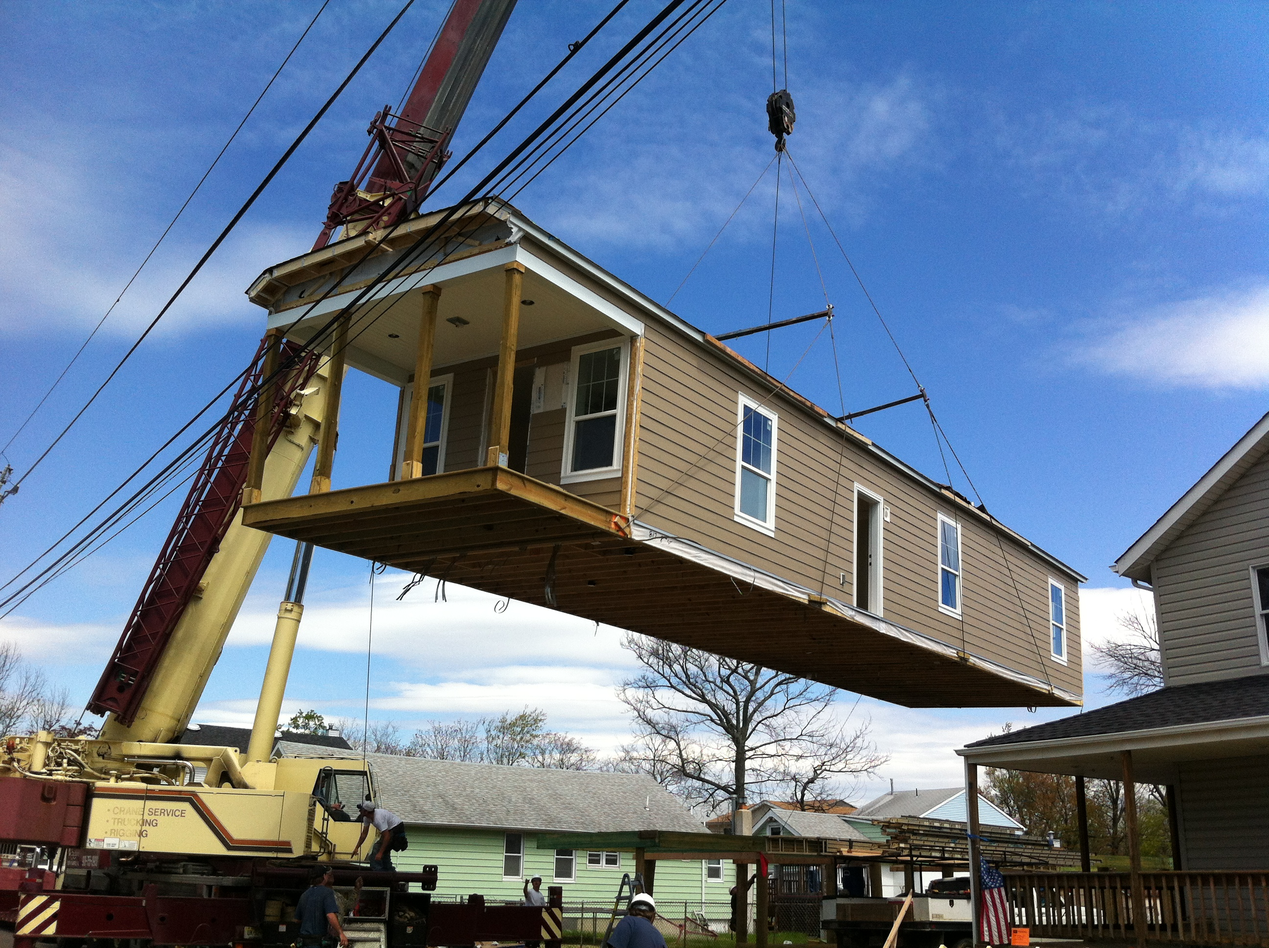
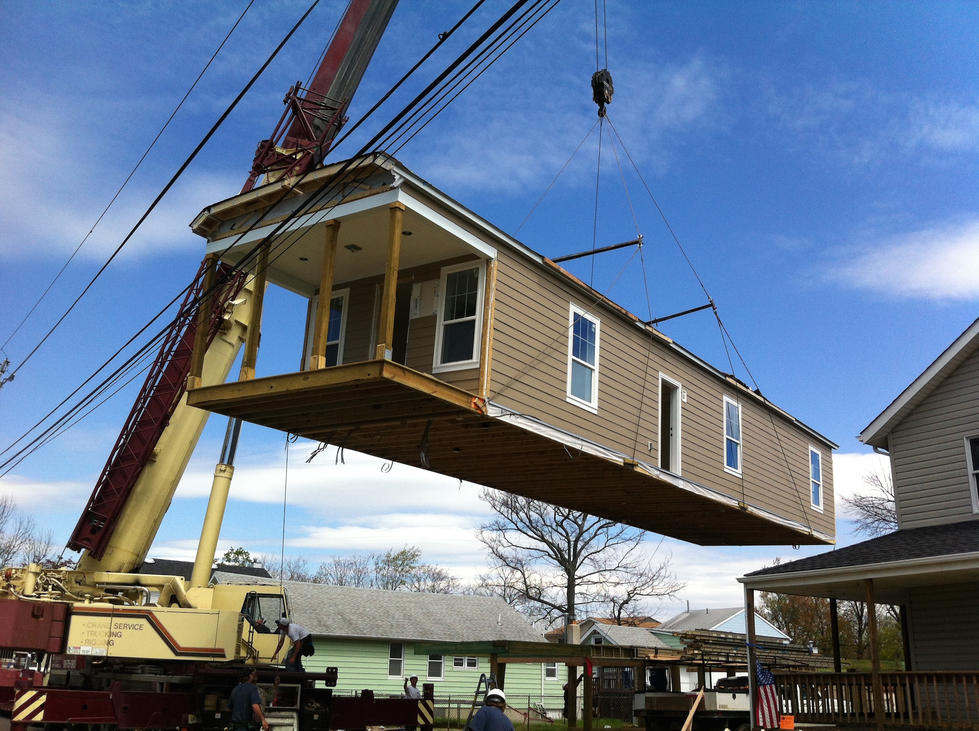
resized press photos, updated project guide link, and removed two photos from homes

diff --git a/homes.html b/homes.html
@@ -61,10 +61,10 @@
           <!-- <img src="public/Homes Model A.jpg" class="img-responsive"> -->
           <img src="public/Homes Model B.jpg" class="img-responsive">
           <br>
-          <img src="public/Homes Model D.jpg" class="img-responsive">
-          <br>
-          <img src="public/Homes Model G.jpg" class="img-responsive">
-          <br>
+          <!-- <img src="public/Homes Model D.jpg" class="img-responsive"> -->
+          <!-- <br> -->
+          <!-- <img src="public/Homes Model G.jpg" class="img-responsive"> -->
+          <!-- <br> -->
           <img src="public/HOMES 2 from top.jpeg" class="img-responsive">
           <br>
           <img src="public/HOMES 3 from top.jpeg" class="img-responsive">
@@ -128,7 +128,7 @@
             <li>Lower stair riser height for use in emergency</li>
             <li> Add stair landing for homeowner comfort and potential EMS use</li>
           </ul>
-          <h4 class="subheading">For further details and photos refer to the <a href="http://issuu.com/scottlauer/docs/rebuilding_union_beach_project_guid?e=5574329/30554361" target="_blank">Project Guide</a></h4>
+          <h4 class="subheading">For further details and photos refer to the <a href="http://issuu.com/scottlauer/docs/rebuilding_union_beach_project_guid" target="_blank">Project Guide</a></h4>
         </div>
       </div>
     </div>

diff --git a/support.html b/support.html
@@ -81,7 +81,7 @@
             <li>Princeton Area Community Foundation</li>
             <li>Rotary International District 7500</li>
           </ul>
-          <h4 class="subheading">For a complete list of supporters refer to the <a href="http://issuu.com/scottlauer/docs/rebuilding_union_beach_project_guid?e=5574329/30554361" target="_blank">Project Guide</a></h4>
+          <h4 class="subheading">For a complete list of supporters refer to the <a href="http://issuu.com/scottlauer/docs/rebuilding_union_beach_project_guid" target="_blank">Project Guide</a></h4>
         </div>
       </div>
     </div>

diff --git a/about.html b/about.html
@@ -77,7 +77,7 @@
             <li>NJ State Assembly Resolution for Sandy Recovery Efforts</li>
             <li>PlanSmart NJ Award</li>
           </ul>
-          <h4 class="subheading">For further details and photos refer to the <a href="http://issuu.com/scottlauer/docs/rebuilding_union_beach_project_guid?e=5574329/30554361" target="_blank">Project Guide</a></h4>
+          <h4 class="subheading">For further details and photos refer to the <a href="http://issuu.com/scottlauer/docs/rebuilding_union_beach_project_guid" target="_blank">Project Guide</a></h4>
         </div>
       </div>
     </div>
